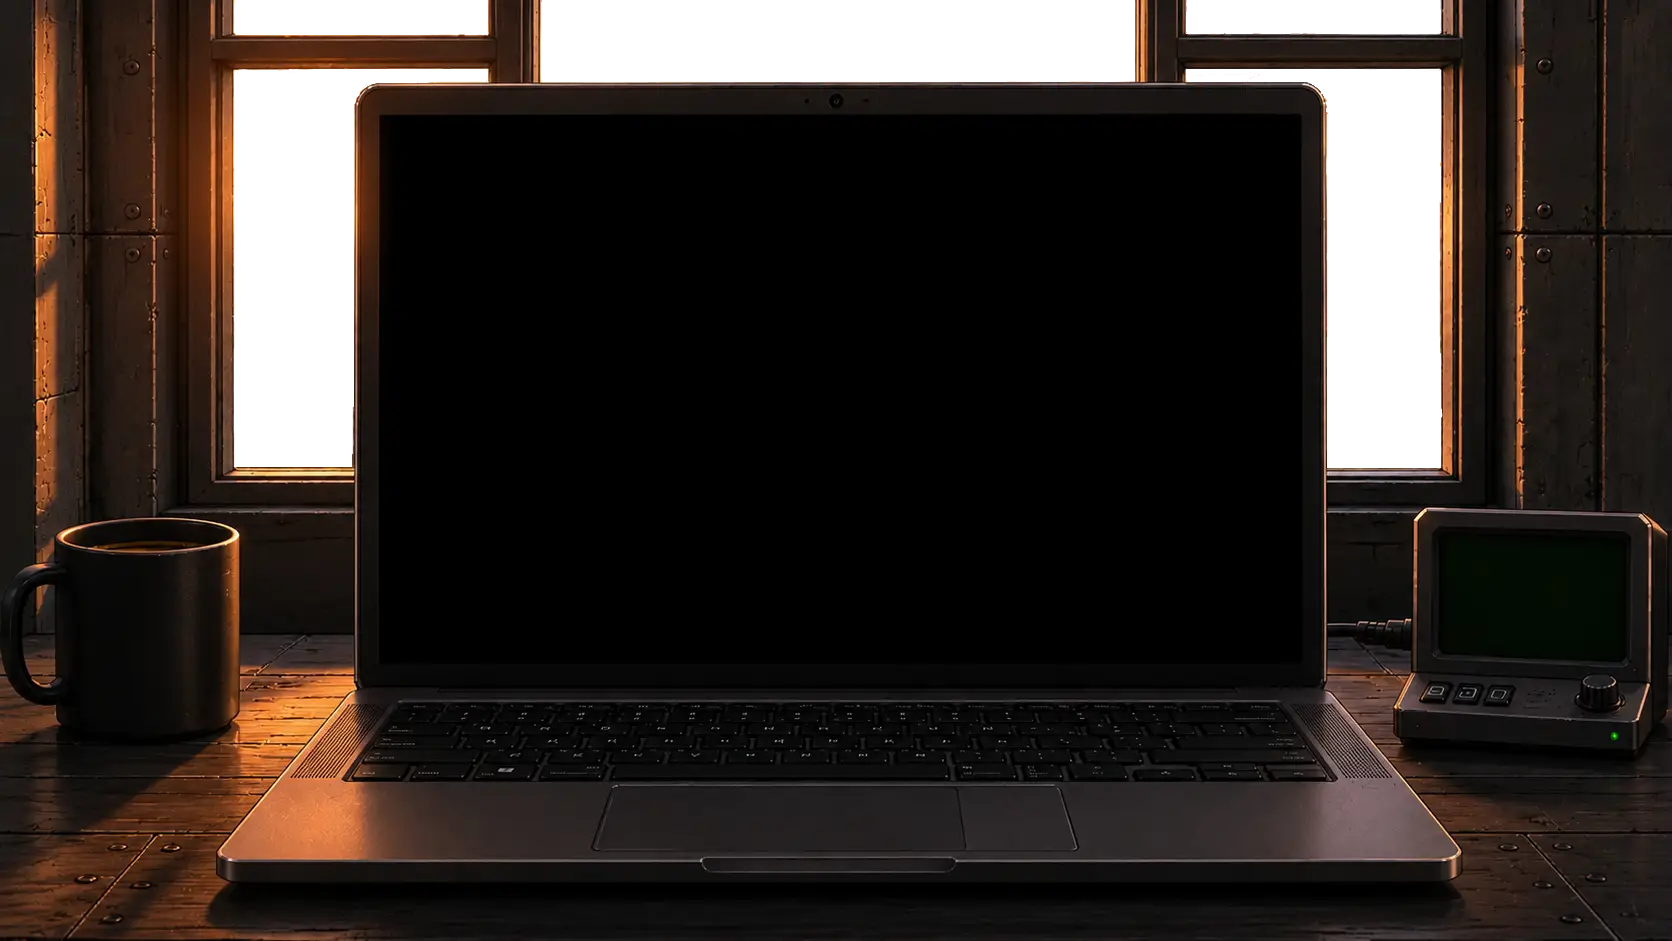
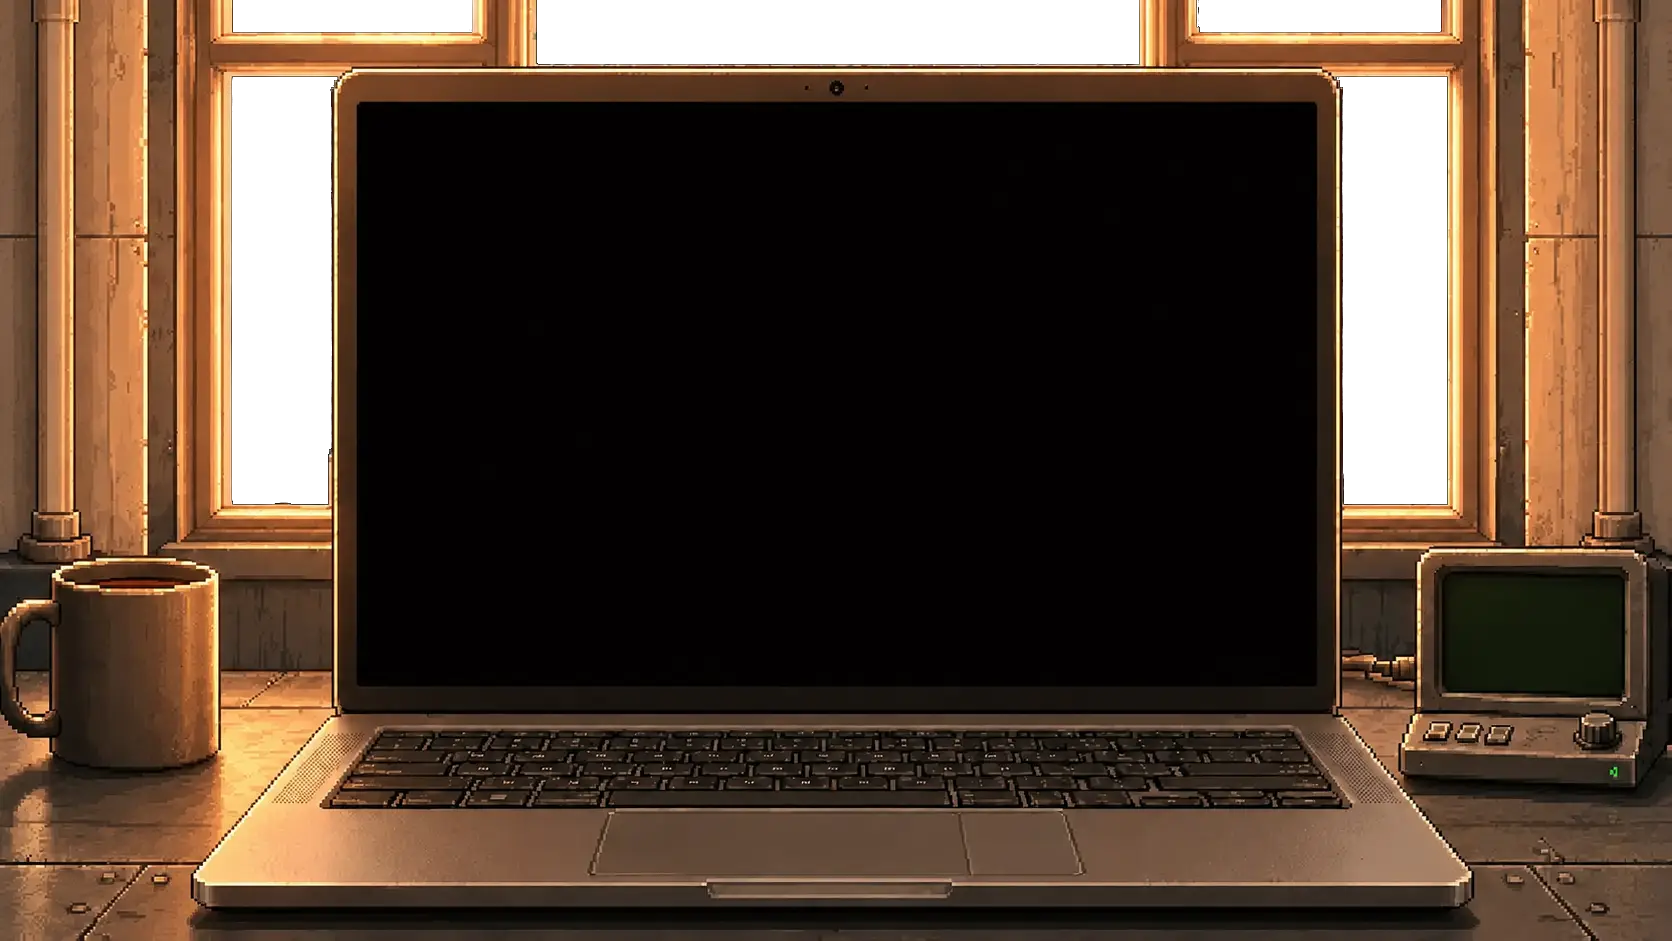
feat(ui): update background images in owrkspace and style scrollbar

diff --git a/src/components/Uplink/NeonsAndLights.tsx b/src/components/Uplink/NeonsAndLights.tsx
@@ -3,7 +3,6 @@ interface NeonsAndLightsProps {
 }
 
 export default function NeonsAndLights({ hour }: NeonsAndLightsProps) {
-  // Opcional: Desativa ou diminui os glows intensos durante o dia claro (entre 5h e 18h)
   const isDaytime = hour >= 5 && hour < 18;
   if (isDaytime) return null;
 
@@ -193,7 +192,7 @@ export default function NeonsAndLights({ hour }: NeonsAndLightsProps) {
 
       {/* 4. GLOW LARANJA (CAFÉ) */}
       <div
-        className="neon-layer bg-orange-500/40 blur-[20px] animate-neon-flicker"
+        className="neon-layer bg-orange-500/40 blur-[7px] animate-neon-pulse"
         style={{
           mixBlendMode: "screen",
           borderRadius: "50%",
@@ -204,7 +203,7 @@ export default function NeonsAndLights({ hour }: NeonsAndLightsProps) {
         }}
       />
       <div
-        className="neon-layer bg-orange-500/40 blur-[20px] animate-neon-flicker"
+        className="neon-layer bg-orange-500/40 blur-[3px] animate-neon-flicker"
         style={{
           mixBlendMode: "screen",
           borderRadius: "20%",
@@ -237,136 +236,134 @@ export default function NeonsAndLights({ hour }: NeonsAndLightsProps) {
         }}
       />
 
-      {/* 2. GLOW ROXO (ESQUERDO) */}
-      {/* <div
+      {/* 5. GLOW ROXO (CIDADE) */}
+      <div
+        className="neon-layer bg-purple-400/40 blur-[10px] animate-neon-pulse"
+        style={{
+          mixBlendMode: "screen",
+          borderRadius: "0%",
+          top: "13.5%",
+          left: "73%",
+          width: "1.2%",
+          height: "2.2%",
+        }}
+      />
+      <div
+        className="neon-layer bg-purple-400/60 blur-[20px] animate-neon-pulse"
+        style={{
+          mixBlendMode: "screen",
+          borderRadius: "50%",
+          top: "49%",
+          left: "76.7%",
+          width: "4.5%",
+          height: "4%",
+        }}
+      />
+      <div
+        className="neon-layer bg-purple-400/40 blur-[20px] animate-[pulse_2s_infinite]"
+        style={{
+          mixBlendMode: "screen",
+          borderRadius: "0%",
+          top: "15%",
+          left: "90.7%",
+          width: "7%",
+          height: "4%",
+        }}
+      />
+      <div
         className="neon-layer bg-purple-400/40 blur-[20px] animate-neon-pulse"
         style={{
           mixBlendMode: "screen",
           borderRadius: "0%",
-          left: "9.35%",
-          top: "50.5%",
-          width: "2.5%",
-          height: "25%",
+          top: "40.5%",
+          left: "95.6%",
+          width: "3.5%",
+          height: "17.5%",
         }}
-      /> */}
+      />
 
-      {/* 3. GLOW AMARELO (CENTRAL) */}
-      {/* <div
-        className="neon-layer bg-yellow-400/40 blur-[10px] animate-neon-flicker"
+      {/* 6. GLOW ROSA (CIDADE) */}
+      <div
+        className="neon-layer bg-pink-500/60 blur-[7px] animate-neon-flicker-intense"
         style={{
           mixBlendMode: "screen",
           borderRadius: "0%",
-          left: "40%",
-          top: "5%",
-          width: "15%",
-          height: "1%",
+          top: "27%",
+          left: "72.5%",
+          width: "0.5%",
+          height: "3%",
         }}
-      /> */}
-
-      {/* 4. GLOW BRANCO (DIREITA) */}
-      {/* <div
-        className="neon-layer bg-white/40 blur-[7px] animate-neon-pulse"
+      />
+      <div
+        className="neon-layer bg-pink-500/60 blur-[15px] animate-neon-flicker"
         style={{
           mixBlendMode: "screen",
           borderRadius: "0%",
-          top: "33.8%",
-          left: "81.7%",
-          width: "0.7%",
+          top: "27%",
+          left: "77.35%",
+          width: "1%",
           height: "4.5%",
         }}
-      /> */}
-
-      {/* 5. GLOW ROSA (DIREITA) */}
-      {/* <div
-        className="neon-layer bg-pink-500/60 blur-[20px] animate-neon-pulse"
+      />
+      <div
+        className="neon-layer bg-pink-500/40 blur-[20px] animate-neon-flicker"
         style={{
           mixBlendMode: "screen",
           borderRadius: "0%",
-          top: "22.8%",
-          left: "89.8%",
-          width: "4.5%",
-          height: "4.5%",
+          top: "24.7%",
+          left: "85%",
+          width: "2.7%",
+          height: "12.5%",
         }}
-      /> */}
+      />
+      <div
+        className="neon-layer bg-pink-500/40 blur-[50px] animate-neon-pulse"
+        style={{
+          mixBlendMode: "screen",
+          borderRadius: "50%",
+          top: "66%",
+          left: "87.5%",
+          width: "12%",
+          height: "6%",
+        }}
+      />
 
-      {/* 6. GLOW AZUL (DIREITA) */}
-      {/* <div
-        className="neon-layer bg-blue-500/40 blur-[20px] animate-neon-pulse"
+      {/* 7. GLOW AZUL (CIDADE) */}
+      <div
+        className="neon-layer bg-blue-500/40 blur-[30px] animate-neon-flicker"
         style={{
           mixBlendMode: "screen",
           borderRadius: "10%",
-          top: "43.1%",
-          left: "90%",
-          width: "3.4%",
-          height: "7.7%",
+          top: "35%",
+          left: "79.4%",
+          width: "1.7%",
+          height: "12%",
         }}
-      /> */}
-
-      {/* 7. GLOW ROXO (DIREITA) */}
-      {/* <div
-        className="neon-layer bg-purple-400/40 blur-[20px] animate-neon-flicker"
+      />
+      <div
+        className="neon-layer bg-blue-500/40 blur-[30px] animate-neon-flicker"
         style={{
           mixBlendMode: "screen",
-          borderRadius: "0%",
-          top: "53.5%",
-          left: "85.5%",
-          width: "7%",
-          height: "6%",
+          borderRadius: "10%",
+          top: "22%",
+          left: "90.8%",
+          width: "2.8%",
+          height: "8%",
         }}
-      /> */}
+      />
 
-      {/* 8. GLOW ROSA (DIREITA) */}
-      {/* <div
-        className="neon-layer bg-pink-500/40 blur-[20px] animate-neon-pulse"
-        style={{
-          mixBlendMode: "screen",
-          borderRadius: "30%",
-          top: "61.5%",
-          left: "86.5%",
-          width: "5%",
-          height: "11%",
-        }}
-      /> */}
-
-      {/* 9. GLOW VERMELHO (DIREITA) */}
-      {/* <div
+      {/* 8. GLOW VERMELHO (CIDADE) */}
+      <div
         className="neon-layer bg-red-600/40 blur-[30px] animate-neon-flicker-intense"
         style={{
           mixBlendMode: "screen",
           borderRadius: "0%",
-          top: "65.5%",
-          left: "94%",
-          width: "2%",
-          height: "6.6%",
+          top: "39.7%",
+          left: "92%",
+          width: "1.5%",
+          height: "7%",
         }}
-      /> */}
-
-      {/* 5. GLOW VERDE */}
-      {/* <div
-        className="neon-layer bg-green-400/40 blur-2xl animate-[pulse_2s_infinite]"
-        style={{
-          mixBlendMode: "screen",
-          animationDuration: "5s",
-          borderRadius: "40%",
-          left: "83%",
-          top: "60%",
-          width: "9%",
-          height: "9%",
-        }}
-      /> */}
-
-      {/* 6. GLOW ROSA */}
-      {/* <div
-        className="neon-layer bg-pink-500/60 blur-[20px] animate-neon-pulse"
-        style={{
-          mixBlendMode: "screen",
-          borderRadius: "20%",
-          left: "95.6%",
-          top: "42.3%",
-          width: "3%",
-          height: "7.5%",
-        }}
-      /> */}
+      />
 
       {/* 🛠 ESTILOS ANIMADOS (Injetados localmente com escopo limpo) */}
       <style>{`

diff --git a/src/components/Uplink/AeronauticalSignalingLight.tsx b/src/components/Uplink/AeronauticalSignalingLight.tsx
@@ -8,18 +8,11 @@ export const AeronauticalSignalingLight: React.FC<
   AeronauticalSignalingLightProps
 > = ({ hour }) => {
   const signalingPoints = [
-    { top: "5.5%", left: "27.2%", delay: "0s", type: "fixed" },
-    { top: "5.7%", left: "28%", delay: "0s", type: "fixed" },
-    { top: "9%", left: "40.1%", delay: "0s", type: "fixed" },
-    { top: "18.5%", left: "50.5%", delay: "0s", type: "flicker" },
-    { top: "35%", left: "55.25%", delay: "0.4s", type: "pulse" },
-    { top: "3.1%", left: "63.55%", delay: "0s", type: "fixed" },
-    { top: "28.8%", left: "70.24%", delay: "0s", type: "fixed" },
-    { top: "14.8%", left: "74.4%", delay: "0.6s", type: "pulse" },
-    { top: "34%", left: "77.57%", delay: "1.2s", type: "pulse" },
-    { top: "18.8%", left: "84.4%", delay: "0s", type: "fixed" },
-    { top: "19.45%", left: "92.75%", delay: "0s", type: "fixed" },
-    { top: "19.6%", left: "95.2%", delay: "0s", type: "flicker" },
+    { top: "16.2%", left: "78.66%", delay: "1.2s", type: "pulse" },
+    { top: "7.2%", left: "87.6%", delay: "0s", type: "fixed" },
+    { top: "10%", left: "92%", delay: "0s", type: "fixed" },
+    { top: "10%", left: "96%", delay: "0s", type: "fixed" },
+    { top: "17%", left: "98.8%", delay: "0.7s", type: "flicker" },
   ];
 
   const globalOpacity = useMemo(() => {

diff --git a/src/components/workspace/index.tsx b/src/components/workspace/index.tsx
@@ -4,6 +4,7 @@ import bgWorkspaceSunrise from "../../assets/workspace-image/bg-workspace-sunris
 import bgWorkspaceDay from "../../assets/workspace-image/bg-workspace-day.webp";
 import bgWorkspaceSunset from "../../assets/workspace-image/bg-workspace-sunset.webp";
 import bgWorkspaceNight from "../../assets/workspace-image/bg-workspace-night.webp";
+
 import bgWorkspaceSunriseCut from "../../assets/workspace-image/bg-workspace-sunrise-cut.webp";
 import bgWorkspaceDayCut from "../../assets/workspace-image/bg-workspace-day-cut.webp";
 import bgWorkspaceSunsetCut from "../../assets/workspace-image/bg-workspace-sunset-cut.webp";
@@ -135,10 +136,10 @@ export default function Workspace({
         <div
           className="absolute bg-transparent transition-all duration-300"
           style={{
-            top: isMobile ? "10.8%" : "11%",
+            top: isMobile ? "10.8%" : "10.8%",
             left: isMobile ? "7%" : "21.2%",
             width: isMobile ? "85.7%" : "57.7%",
-            height: isMobile ? "62%" : "62%",
+            height: isMobile ? "62%" : "62.15%",
             zIndex: 2,
           }}
         >

diff --git a/src/index.css b/src/index.css
@@ -22,6 +22,35 @@
   --animate-loading-bar: loading-bar 2s ease-in-out forwards;
 }
 
+/* --- SCROLLBAR PERSONALIZADO --- */
+
+/* Navegadores Firefox */
+html {
+  scrollbar-width: thin;
+  scrollbar-color: #00f3ff #05050d;
+}
+
+/* Navegadores Webkit (Chrome, Edge, Safari) */
+::-webkit-scrollbar {
+  width: 8px;
+  height: 8px;
+}
+
+::-webkit-scrollbar-track {
+  background: #05050d; /* Fundo do container (seu bg-cyber-bg) */
+}
+
+::-webkit-scrollbar-thumb {
+  background: #003033; /* Cyan escuro (frio) */
+  border-radius: 4px;
+  border: 1px solid #00f3ff; /* Borda neon */
+}
+
+::-webkit-scrollbar-thumb:hover {
+  background: #00f3ff; /* Brilha em Neon Cyan ao passar o mouse */
+  box-shadow: 0 0 10px #00f3ff; /* Efeito de brilho */
+}
+
 /* Definição dos Keyframes */
 @keyframes natural-flicker {
   0%,

diff --git a/src/components/Uplink/index.tsx b/src/components/Uplink/index.tsx
@@ -24,6 +24,7 @@ import Clouds from "../Clouds";
 import Rain from "../Rain";
 import TerminalDisplay from "./TerminalDisplay";
 import NeonsAndLights from "./NeonsAndLights";
+import { AeronauticalSignalingLight } from "./AeronauticalSignalingLight";
 
 interface UplinkProps {
   hour: number;
@@ -128,7 +129,7 @@ export default function Uplink({
         {!isMobile && (
           <>
             <NeonsAndLights hour={hour} />
-            {/* <AeronauticalSignalingLight hour={hour} /> */}
+            <AeronauticalSignalingLight hour={hour} />
           </>
         )}
       </div>

diff --git a/src/components/Hero/index.tsx b/src/components/Hero/index.tsx
@@ -4,6 +4,7 @@ import bgHeroSunrise from "../../assets/home-image/bg-hero-sunrise.webp";
 import bgHeroDay from "../../assets/home-image/bg-hero-day.webp";
 import bgHeroSunset from "../../assets/home-image/bg-hero-sunset.webp";
 import bgHeroNight from "../../assets/home-image/bg-hero-night.webp";
+
 import bgHeroSunriseCut from "../../assets/home-image/bg-hero-sunrise-cut.webp";
 import bgHeroDayCut from "../../assets/home-image/bg-hero-day-cut.webp";
 import bgHeroNightCut from "../../assets/home-image/bg-hero-night-cut.webp";

diff --git a/src/components/workspace/NeonsAndLights.tsx b/src/components/workspace/NeonsAndLights.tsx
@@ -119,10 +119,10 @@ export default function NeonsAndLights({ hour }: NeonsAndLightsProps) {
         style={{
           mixBlendMode: "screen",
           borderRadius: "0%",
-          top: "39%",
+          top: "38.6%",
           left: "80.4%",
-          width: "1%",
-          height: "1.5%",
+          width: "0.8%",
+          height: "2%",
         }}
       />
 

diff --git a/src/components/workspace/RetroTerminal.tsx b/src/components/workspace/RetroTerminal.tsx
@@ -53,13 +53,6 @@ export const RetroTerminal = () => {
           style={{ animation: "bounce 0.6s infinite" }}
         />
       </div>
-
-      <div
-        className="mt-[2%] truncate"
-        style={{ fontSize: "clamp(5px, 0.6vw, 10px)" }}
-      >
-        LOC: SEETOR_CYBER
-      </div>
     </div>
   );
 };
